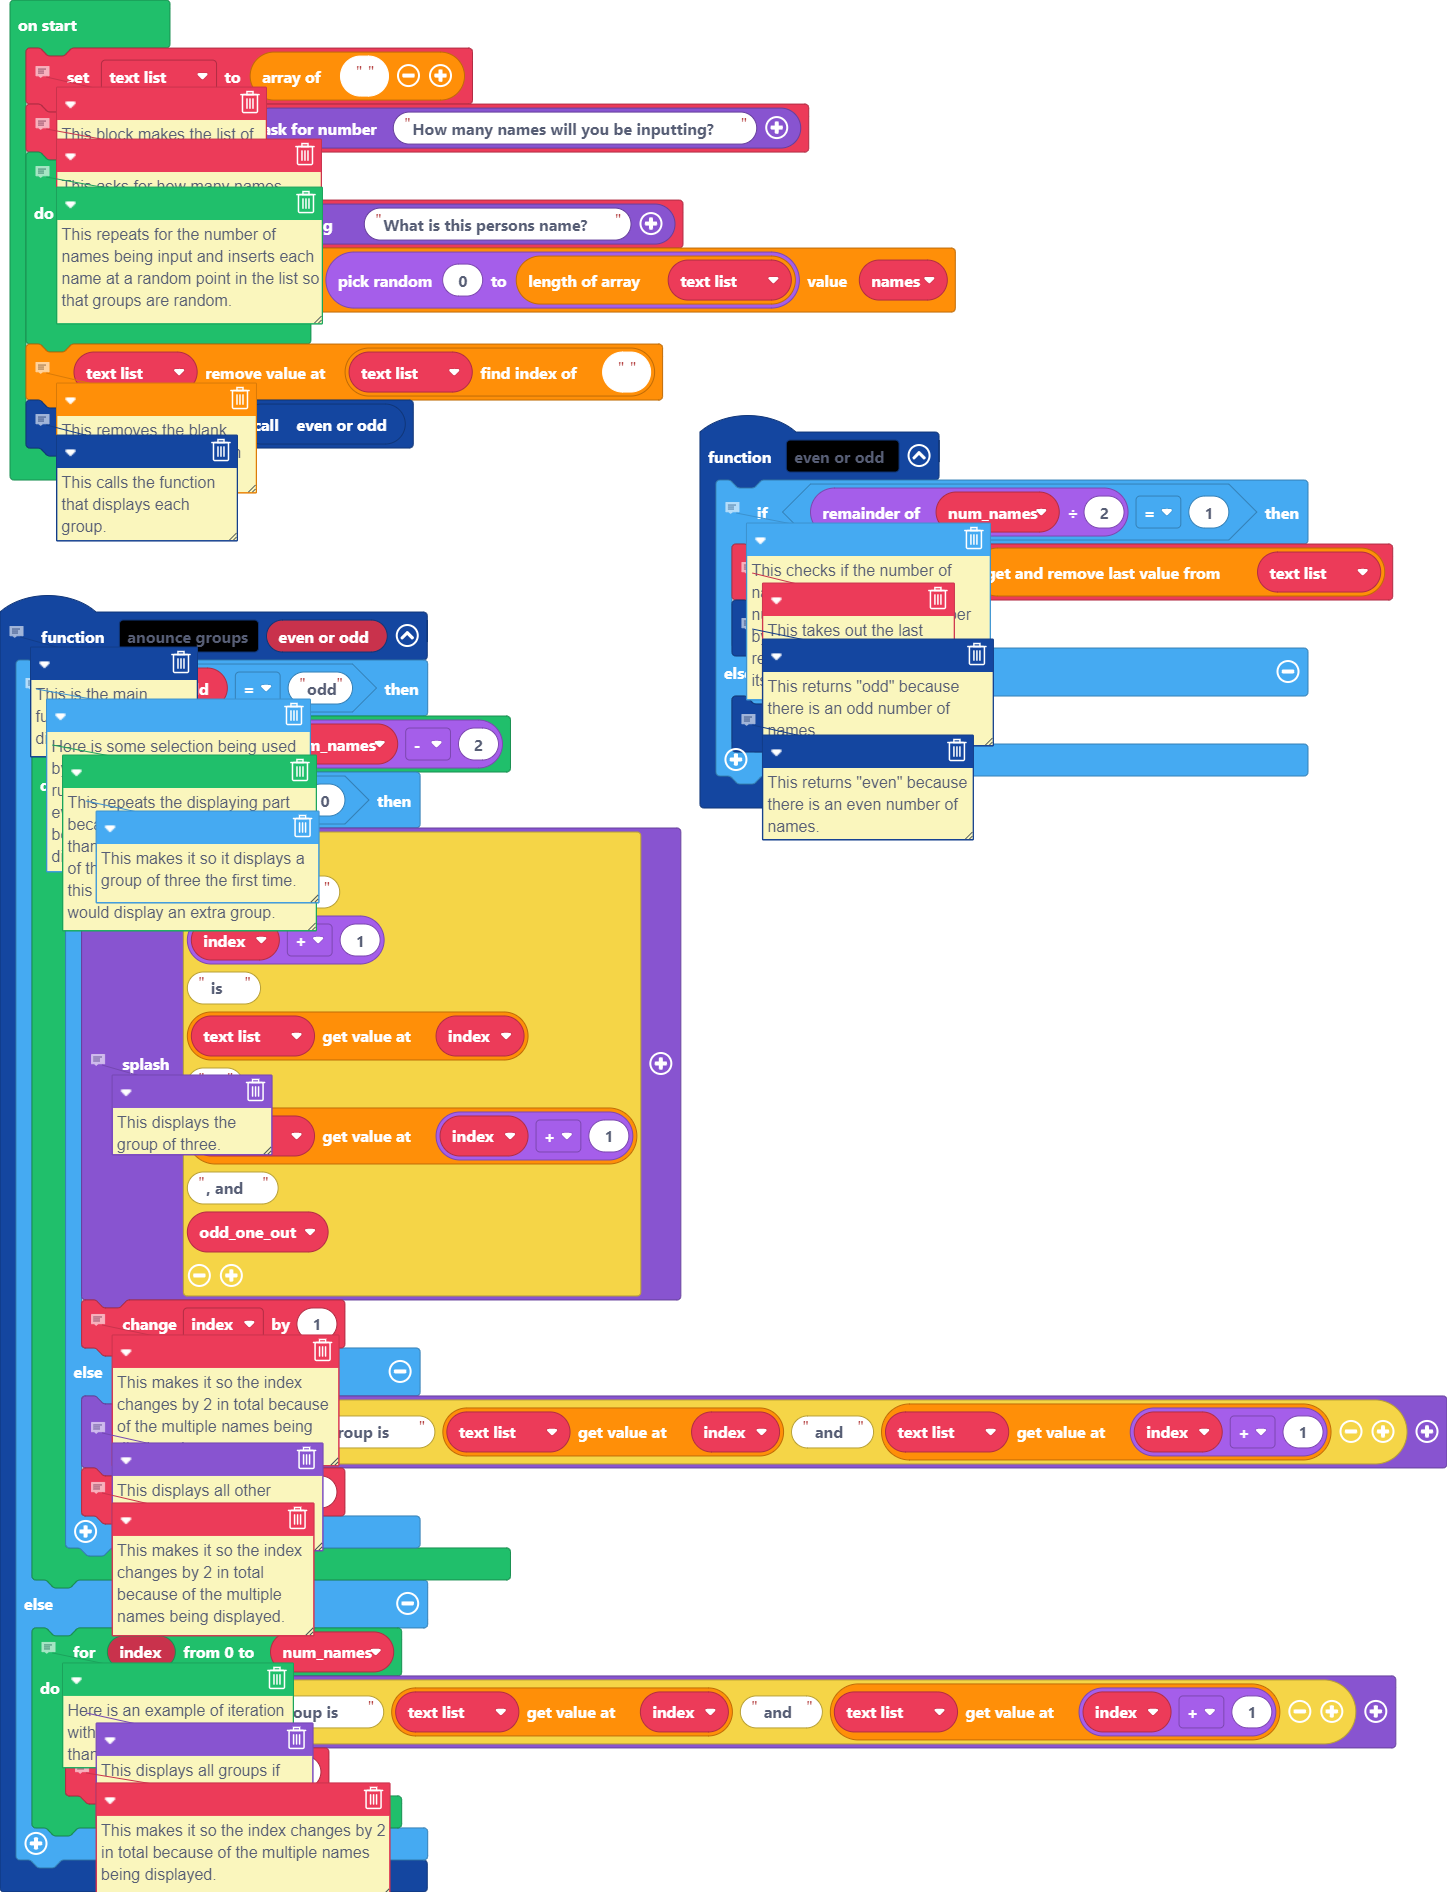
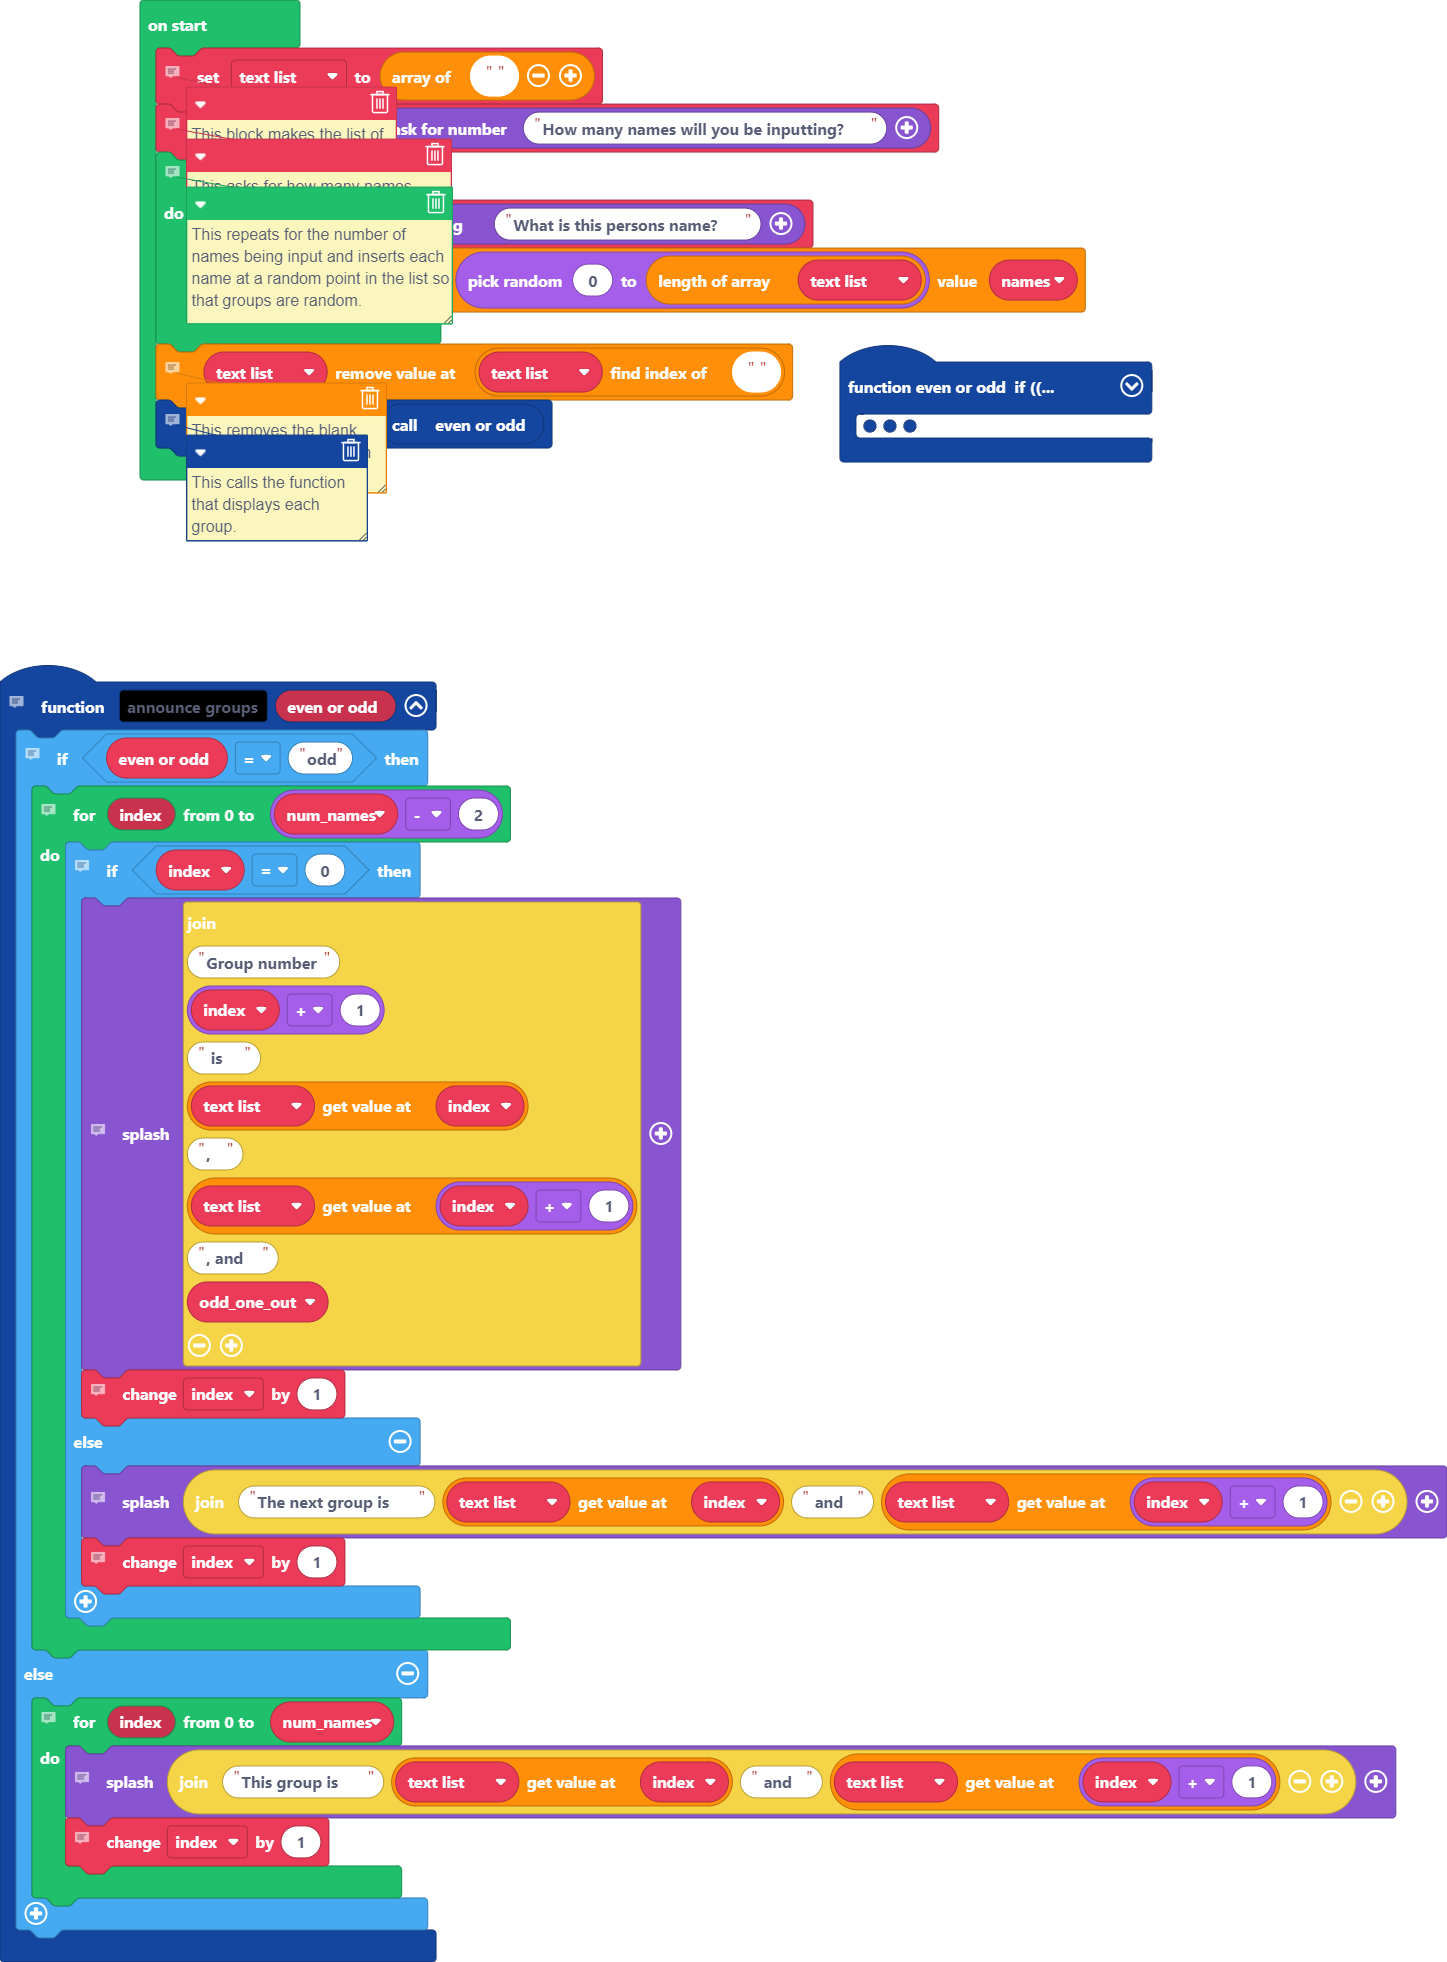
Update main.blocks, main.ts

diff --git a/main.ts b/main.ts
@@ -11,7 +11,7 @@ function even_or_odd () {
     }
 }
 // This is the main function which displays the groups and uses sequencing by having more than one block that runs.
-function anounce_groups (even_or_odd2: string) {
+function announce_groups (even_or_odd2: string) {
     // Here is some selection being used by changing what part of the code runs depending on if there is an even or odd number of names because if its odd we will need to display a group of three.
     if (even_or_odd2 == "odd") {
         // This repeats the displaying part because we want to display more than one group, it has a -2 on it bc of the odd number of names and this counter acts a bug where it would display an extra group.
@@ -55,4 +55,4 @@ for (let index = 0; index < num_names; index++) {
 // This removes the blank variable from the list from when it was created.
 text_list.removeAt(text_list.indexOf(""))
 // This calls the function that displays each group.
-anounce_groups(even_or_odd())
+announce_groups(even_or_odd())
